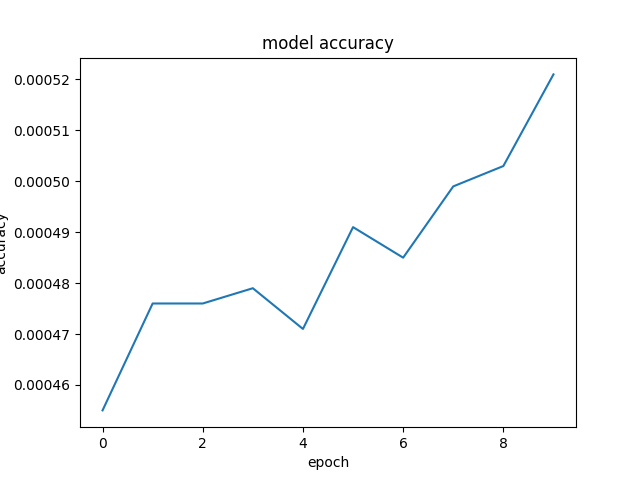
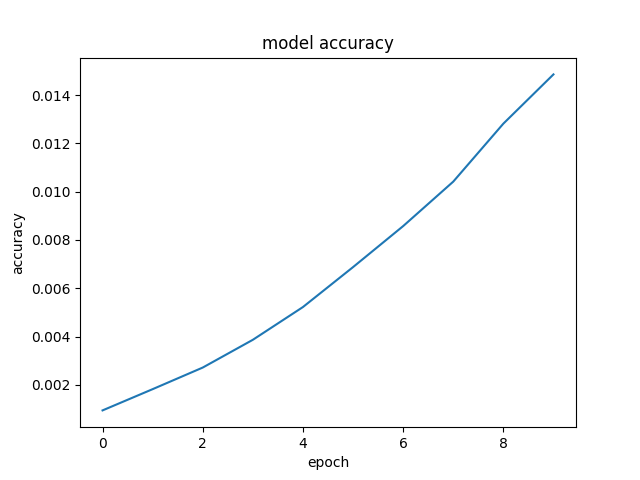
plots

diff --git a/mlpTest.py b/mlpTest.py
@@ -15,7 +15,7 @@ def mlp1():
 	model.add(Dense(1000, activation='relu', input_dim=40))
 	model.add(Dense(1000, activation='relu'))
 	model.add(Dense(3000, activation='softmax'))
-	model.compile(optimizer='sgd',
+	model.compile(optimizer='adagrad',
 	              loss='categorical_crossentropy',
 	              metrics=['accuracy'])
 	return model
@@ -53,24 +53,24 @@ def mlp3():
 	return model
 data = np.load('wsj0_randlabels.npz')
 model = mlp1()
-# plot_model(model, to_file='mlp3_model.png')
-x_train = data['X_Train'][:1000000]
-y_train = data['Y_Train'][:1000000]
-y_train = to_categorical(y_train, num_classes = 3000)
-history = model.fit(x_train,y_train,epochs=10,batch_size=20000)
-print(history.history.keys())
-# summarize history for accuracy
-plt.plot(history.history['acc'])
-plt.title('model accuracy')
-plt.ylabel('accuracy')
-plt.xlabel('epoch')
-plt.savefig('mlp1_relu_acc.png')
+plot_model(model, to_file='mlp3_model.png')
+# x_train = data['X_Train'][:1000000]
+# y_train = data['Y_Train'][:1000000]
+# y_train = to_categorical(y_train, num_classes = 3000)
+# history = model.fit(x_train,y_train,epochs=10,batch_size=20000)
+# print(history.history.keys())
+# # summarize history for accuracy
+# plt.plot(history.history['acc'])
+# plt.title('model accuracy')
+# plt.ylabel('accuracy')
+# plt.xlabel('epoch')
+# plt.savefig('mlp1_relu_acc.png')
 
 
-model = load_model("mlp_randomAlign.h5")
-x_test = data['X_Test'][:250000]
-y_test = data['Y_Test'][:250000]
-y_test = to_categorical(y_test, num_classes = 3000)
-with tf.device('/gpu:0'):
-	score = model.evaluate(x_test, y_test, batch_size=2000)
-print score
+# model = load_model("mlp_randomAlign.h5")
+# x_test = data['X_Test'][:250000]
+# y_test = data['Y_Test'][:250000]
+# y_test = to_categorical(y_test, num_classes = 3000)
+# with tf.device('/gpu:0'):
+# 	score = model.evaluate(x_test, y_test, batch_size=2000)
+# print score
